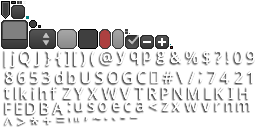
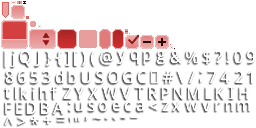
Added main menu and UI changes

Changed region(s): [[0.0, 0.0, 0.6875, 0.4062]]

diff --git a/core/src/com/cesarandres/aw/screen/MainMenuScreen.java b/core/src/com/cesarandres/aw/screen/MainMenuScreen.java
@@ -1,0 +1,92 @@
+package com.cesarandres.aw.screen;
+
+import com.badlogic.gdx.Gdx;
+import com.badlogic.gdx.Screen;
+import com.badlogic.gdx.graphics.GL20;
+import com.badlogic.gdx.graphics.OrthographicCamera;
+import com.badlogic.gdx.graphics.Texture;
+import com.badlogic.gdx.graphics.g2d.SpriteBatch;
+import com.badlogic.gdx.graphics.g2d.TextureRegion;
+import com.badlogic.gdx.scenes.scene2d.Stage;
+import com.badlogic.gdx.scenes.scene2d.ui.Table;
+import com.badlogic.gdx.scenes.scene2d.ui.TextButton;
+import com.badlogic.gdx.utils.viewport.ScreenViewport;
+import com.badlogic.gdx.utils.viewport.Viewport;
+import com.cesarandres.aw.AndroidWars;
+
+public class MainMenuScreen implements Screen {
+
+	private Stage stage;
+	private AndroidWars aw;
+	private TextureRegion background;
+	private SpriteBatch batch;
+
+	public MainMenuScreen(final AndroidWars aw) {
+		this.aw = aw;
+
+		this.stage = new Stage();
+		this.stage.setViewport(new ScreenViewport(new OrthographicCamera()));
+
+		Gdx.input.setInputProcessor(this.stage);
+
+		Table window = new Table(AndroidWars.skin);
+		window.setFillParent(true);
+		window.add(new TextButton("Campaing", AndroidWars.skin));
+		window.row();
+		window.add(new TextButton("Start Game", AndroidWars.skin));
+
+		this.stage.addActor(window);
+
+		Texture texture = new Texture(Gdx.files.internal("Intro.png"));
+		this.background = new TextureRegion(texture);
+
+		this.batch = new SpriteBatch();
+	}
+
+	@Override
+	public void render(float delta) {
+		Gdx.gl.glClearColor(0.2f, 0.2f, 0.2f, 1);
+		Gdx.gl.glClear(GL20.GL_COLOR_BUFFER_BIT);
+
+		Viewport viewPort = this.stage.getViewport();
+		batch.setProjectionMatrix(viewPort.getCamera().combined);
+		batch.begin();
+		batch.draw(this.background, 0, 0, viewPort.getViewportWidth(), viewPort.getViewportHeight());
+		batch.end();
+
+		this.stage.act(Math.min(delta, 1 / 30f));
+		this.stage.draw();
+	}
+
+	@Override
+	public void resize(int width, int height) {
+		this.stage.getViewport().update(width, height, true);
+	}
+
+	@Override
+	public void dispose() {
+		this.stage.dispose();
+		this.background.getTexture().dispose();
+		this.batch.dispose();
+	}
+
+	@Override
+	public void show() {
+		// TODO Auto-generated method stub
+	}
+
+	@Override
+	public void hide() {
+		// TODO Auto-generated method stub
+	}
+
+	@Override
+	public void pause() {
+		// TODO Auto-generated method stub
+	}
+
+	@Override
+	public void resume() {
+		// TODO Auto-generated method stub
+	}
+}

diff --git a/core/src/com/cesarandres/aw/screen/GameScreen.java b/core/src/com/cesarandres/aw/screen/GameScreen.java
@@ -1,0 +1,86 @@
+package com.cesarandres.aw.screen;
+
+import com.badlogic.gdx.Gdx;
+import com.badlogic.gdx.InputMultiplexer;
+import com.badlogic.gdx.Screen;
+import com.badlogic.gdx.files.FileHandle;
+import com.badlogic.gdx.graphics.GL20;
+import com.badlogic.gdx.graphics.OrthographicCamera;
+import com.cesarandres.aw.AndroidWars;
+import com.cesarandres.aw.GameUI;
+import com.cesarandres.aw.GameWorld;
+import com.cesarandres.aw.OrthoCamController;
+import com.cesarandres.aw.config.ConfigurationFile;
+
+public class GameScreen implements Screen {
+
+	private GameWorld match;
+	private OrthoCamController controller;
+	private GameUI ui;
+			
+	public GameScreen(AndroidWars aw) {
+		
+		FileHandle file = Gdx.files.internal("map_config.json");
+		ConfigurationFile config = ConfigurationFile.getGameConfiguration(file);
+		
+		OrthographicCamera camera = new OrthographicCamera();
+
+		this.ui = new GameUI();
+		this.match = new GameWorld(camera, config);
+		this.controller = new OrthoCamController(camera, this.match);
+
+		InputMultiplexer multiplexer = new InputMultiplexer();
+		
+		multiplexer.addProcessor(ui);
+		multiplexer.addProcessor(match);
+		multiplexer.addProcessor(controller);
+
+		Gdx.input.setInputProcessor(multiplexer);
+	}
+		
+	@Override
+	public void resize(int width, int height) {
+		this.match.resize(width, height);
+		this.ui.resize(width, height);
+	}
+
+	@Override
+	public void render(float delta) {
+		Gdx.gl.glClearColor(100f / 255f, 100f / 255f, 250f / 255f, 1f);
+		Gdx.gl.glClear(GL20.GL_COLOR_BUFFER_BIT);
+	    this.match.act(Gdx.graphics.getDeltaTime());
+	    this.match.draw();
+	    this.ui.act(Gdx.graphics.getDeltaTime());
+	    this.ui.draw();
+	}
+
+	@Override
+	public void show() {
+		// TODO Auto-generated method stub
+		
+	}
+
+	@Override
+	public void hide() {
+		// TODO Auto-generated method stub
+		
+	}
+
+	@Override
+	public void pause() {
+		// TODO Auto-generated method stub
+		
+	}
+
+	@Override
+	public void resume() {
+		// TODO Auto-generated method stub
+		
+	}
+
+	@Override
+	public void dispose() {
+		// TODO Auto-generated method stub
+		
+	}
+}

diff --git a/core/src/com/cesarandres/aw/AndroidWars.java b/core/src/com/cesarandres/aw/AndroidWars.java
@@ -1,53 +1,29 @@
 package com.cesarandres.aw;
 
-import com.badlogic.gdx.ApplicationAdapter;
+import com.badlogic.gdx.Game;
 import com.badlogic.gdx.Gdx;
-import com.badlogic.gdx.InputMultiplexer;
-import com.badlogic.gdx.files.FileHandle;
-import com.badlogic.gdx.graphics.GL20;
-import com.badlogic.gdx.graphics.OrthographicCamera;
-import com.cesarandres.aw.config.ConfigurationFile;
+import com.badlogic.gdx.scenes.scene2d.ui.Skin;
+import com.cesarandres.aw.screen.MainMenuScreen;
 
-public class AndroidWars extends ApplicationAdapter {
+public class AndroidWars extends Game {
 
-	private GameWorld match;
-	private OrthoCamController controller;
-	private GameUI ui;
-			
+	public static Skin skin;
+
 	@Override
-	public void create() {				
-		
-		FileHandle file = Gdx.files.internal("map_config.json");
-		ConfigurationFile config = ConfigurationFile.getGameConfiguration(file);
-		
-		OrthographicCamera camera = new OrthographicCamera();
+	public void create() {
+		AndroidWars.skin = new Skin(Gdx.files.internal("uiskin.json"));
 
-		this.ui = new GameUI();
-		this.match = new GameWorld(camera, config);
-		this.controller = new OrthoCamController(camera, this.match);
+		this.setScreen(new MainMenuScreen(this));
+	}
 
-		InputMultiplexer multiplexer = new InputMultiplexer();
-		
-		multiplexer.addProcessor(ui);
-		multiplexer.addProcessor(match);
-		multiplexer.addProcessor(controller);
-
-		Gdx.input.setInputProcessor(multiplexer);
+	@Override
+	public void dispose () {
+		super.dispose();
+		AndroidWars.skin.dispose();
 	}
 	
 	@Override
 	public void render() {
-		Gdx.gl.glClearColor(100f / 255f, 100f / 255f, 250f / 255f, 1f);
-		Gdx.gl.glClear(GL20.GL_COLOR_BUFFER_BIT);
-	    this.match.act(Gdx.graphics.getDeltaTime());
-	    this.match.draw();
-	    this.ui.act(Gdx.graphics.getDeltaTime());
-	    this.ui.draw();
-	}
-	
-	@Override
-	public void resize(int width, int height) {
-		this.match.resize(width, height);
-		this.ui.resize(width, height);
+		super.render();
 	}
 }
